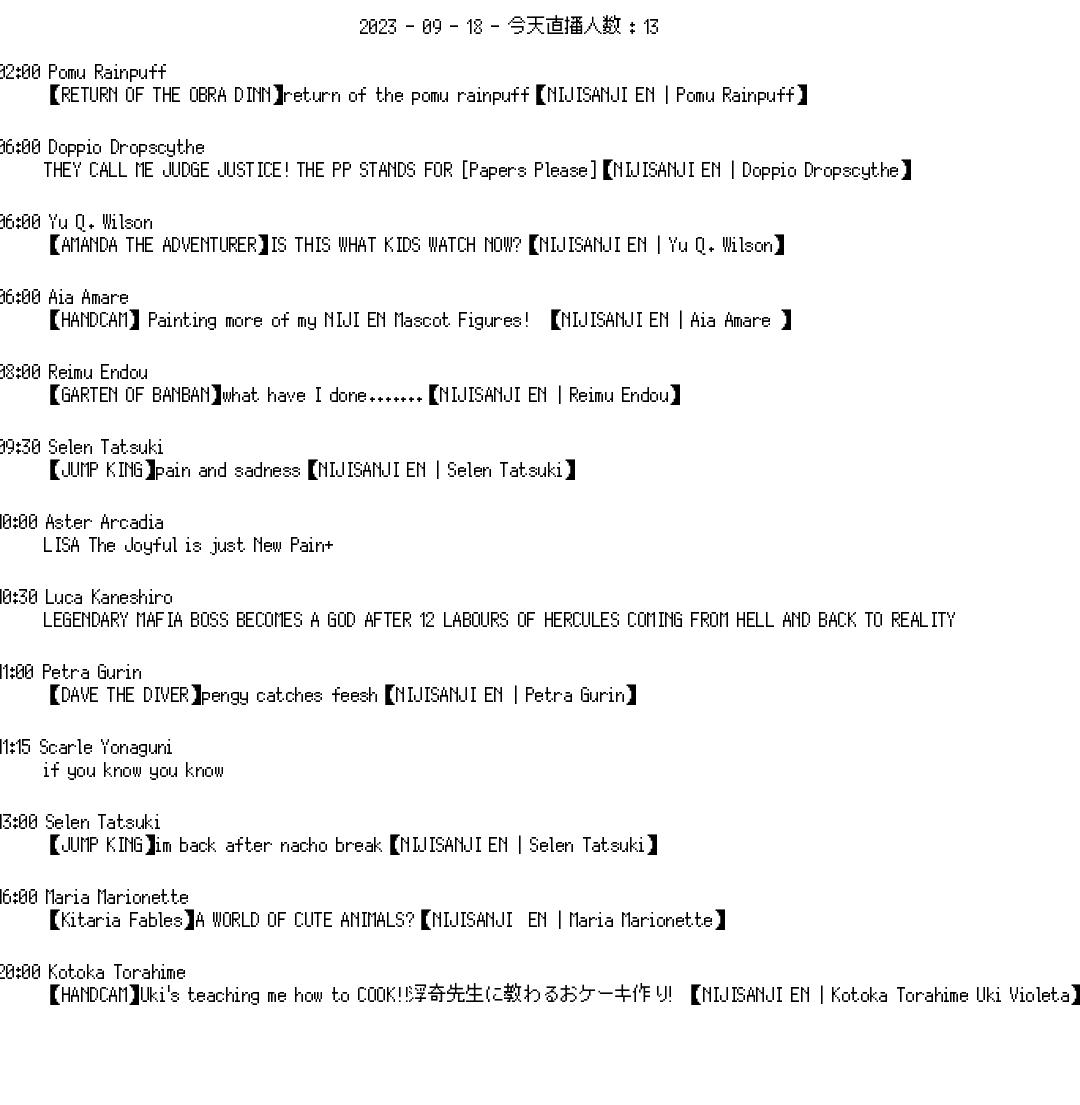
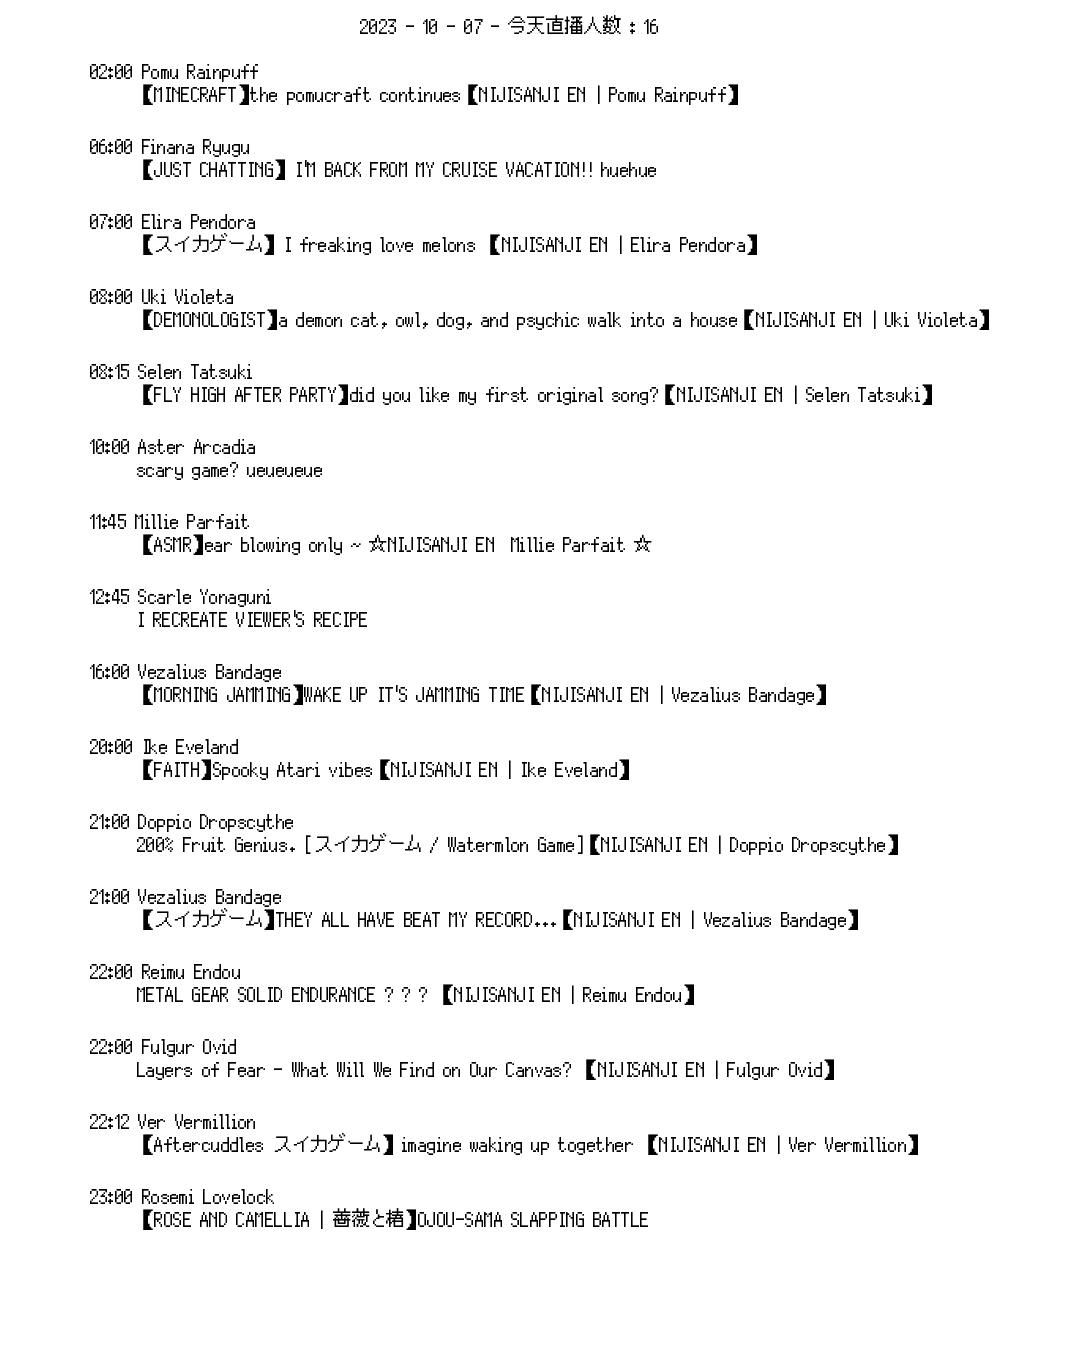
更新部分样式

diff --git a/nijisan_en_daily.html b/nijisan_en_daily.html
@@ -1,81 +1,102 @@
 
-    <h1 align="center">2023 - 09 - 18 - 今天直播人数 : 13</h1>
+    <!DOCTYPE html>
+    <html lang="en">
+    <body align="center">
+    <h1>2023 - 10 - 07 - 今天直播人数 : 16</h1>
     
-        <h3 align="center">02:00   Pomu Rainpuff </h3>
-        <h5 align="center">【RETURN OF THE OBRA DINN】return of the pomu rainpuff【NIJISANJI EN | Pomu Rainpuff】  <a href="https://youtube.com/watch?v=iRKBgt3zxCA">LINK</a>
+        <h2>02:00   Pomu Rainpuff </h2>
+        <h3>【MINECRAFT】the pomucraft continues【NIJISANJI EN | Pomu Rainpuff】</h3>  <br/>
+        <a href="https://youtube.com/watch?v=Chr4j6aPIP8"><img src="https://i.ytimg.com/vi/Chr4j6aPIP8/mqdefault.jpg" alt="Pomu Rainpuff "/> <br/>
+        ⬆ CLICK LINK</a>
         <br/>
-        <img src="https://i.ytimg.com/vi/iRKBgt3zxCA/mqdefault.jpg"/>
-        </h5>
         
-        <h3 align="center">06:00   Doppio Dropscythe</h3>
-        <h5 align="center">THEY CALL ME JUDGE JUSTICE! THE PP STANDS FOR [Papers Please]【NIJISANJI EN | Doppio Dropscythe】  <a href="https://youtube.com/watch?v=2dnM-hdPuN8">LINK</a>
+        <h2>06:00   Finana Ryugu </h2>
+        <h3>【JUST CHATTING】 I'M BACK FROM MY CRUISE VACATION!! huehue 🚢</h3>  <br/>
+        <a href="https://youtube.com/watch?v=Z2gFful5hdE"><img src="https://i.ytimg.com/vi/Z2gFful5hdE/mqdefault.jpg" alt="Finana Ryugu "/> <br/>
+        ⬆ CLICK LINK</a>
         <br/>
-        <img src="https://i.ytimg.com/vi/2dnM-hdPuN8/mqdefault.jpg"/>
-        </h5>
         
-        <h3 align="center">06:00   Yu Q. Wilson </h3>
-        <h5 align="center">【AMANDA THE ADVENTURER】IS THIS WHAT KIDS WATCH NOW?【NIJISANJI EN | Yu Q. Wilson】  <a href="https://youtube.com/watch?v=_DTSaDB_tvg">LINK</a>
+        <h2>07:00   Elira Pendora </h2>
+        <h3>【スイカゲーム】 I freaking love melons 【NIJISANJI EN | Elira Pendora】</h3>  <br/>
+        <a href="https://youtube.com/watch?v=3hQcrkURBS4"><img src="https://i.ytimg.com/vi/3hQcrkURBS4/mqdefault_live.jpg" alt="Elira Pendora "/> <br/>
+        ⬆ CLICK LINK</a>
         <br/>
-        <img src="https://i.ytimg.com/vi/_DTSaDB_tvg/mqdefault.jpg"/>
-        </h5>
         
-        <h3 align="center">06:00   Aia Amare </h3>
-        <h5 align="center">【HANDCAM】 Painting more of my NIJI EN Mascot Figures! 🎨 【NIJISANJI EN | Aia Amare 】  <a href="https://youtube.com/watch?v=emoRU-7UUV0">LINK</a>
+        <h2>08:00   Uki Violeta </h2>
+        <h3>【DEMONOLOGIST】a demon cat, owl, dog, and psychic walk into a house【NIJISANJI EN | Uki Violeta】</h3>  <br/>
+        <a href="https://youtube.com/watch?v=VgSUZ7pHyNU"><img src="https://i.ytimg.com/vi/VgSUZ7pHyNU/mqdefault.jpg" alt="Uki Violeta "/> <br/>
+        ⬆ CLICK LINK</a>
         <br/>
-        <img src="https://i.ytimg.com/vi/emoRU-7UUV0/mqdefault.jpg"/>
-        </h5>
         
-        <h3 align="center">08:00   Reimu Endou</h3>
-        <h5 align="center">【GARTEN OF BANBAN】what have I done.......【NIJISANJI EN | Reimu Endou】  <a href="https://youtube.com/watch?v=UW6evpUu2o4">LINK</a>
+        <h2>08:15   Selen Tatsuki </h2>
+        <h3>【FLY HIGH AFTER PARTY】did you like my first original song?【NIJISANJI EN | Selen Tatsuki】</h3>  <br/>
+        <a href="https://youtube.com/watch?v=i6xqLwDYp1c"><img src="https://i.ytimg.com/vi/i6xqLwDYp1c/mqdefault.jpg" alt="Selen Tatsuki "/> <br/>
+        ⬆ CLICK LINK</a>
         <br/>
-        <img src="https://i.ytimg.com/vi/UW6evpUu2o4/mqdefault.jpg"/>
-        </h5>
         
-        <h3 align="center">09:30   Selen Tatsuki </h3>
-        <h5 align="center">【JUMP KING】pain and sadness【NIJISANJI EN | Selen Tatsuki】  <a href="https://youtube.com/watch?v=GBx3kfkCFAc">LINK</a>
+        <h2>10:00   Aster Arcadia </h2>
+        <h3>scary game? ueueueue 😭</h3>  <br/>
+        <a href="https://youtube.com/watch?v=84o9ik6b2RI"><img src="https://i.ytimg.com/vi/84o9ik6b2RI/mqdefault.jpg" alt="Aster Arcadia "/> <br/>
+        ⬆ CLICK LINK</a>
         <br/>
-        <img src="https://i.ytimg.com/vi/GBx3kfkCFAc/mqdefault.jpg"/>
-        </h5>
         
-        <h3 align="center">10:00   Aster Arcadia </h3>
-        <h5 align="center">LISA The Joyful is just New Pain+  <a href="https://youtube.com/watch?v=UvuvZLsXuW4">LINK</a>
+        <h2>11:45   Millie Parfait</h2>
+        <h3>【ASMR】ear blowing only ~ ☆⭒NIJISANJI EN ✧ Millie Parfait ☆⭒</h3>  <br/>
+        <a href="https://youtube.com/watch?v=-yFRzaGK-Gc"><img src="https://i.ytimg.com/vi/-yFRzaGK-Gc/mqdefault.jpg" alt="Millie Parfait"/> <br/>
+        ⬆ CLICK LINK</a>
         <br/>
-        <img src="https://i.ytimg.com/vi/UvuvZLsXuW4/mqdefault_live.jpg"/>
-        </h5>
         
-        <h3 align="center">10:30   Luca Kaneshiro</h3>
-        <h5 align="center">LEGENDARY MAFIA BOSS BECOMES A GOD AFTER 12 LABOURS OF HERCULES COMING FROM HELL AND BACK TO REALITY  <a href="https://youtube.com/watch?v=eWXjLTOKiZg">LINK</a>
+        <h2>12:45   Scarle Yonaguni </h2>
+        <h3>I RECREATE VIEWER'S RECIPE</h3>  <br/>
+        <a href="https://youtube.com/watch?v=s-HyzVtqUHA"><img src="https://i.ytimg.com/vi/s-HyzVtqUHA/mqdefault_live.jpg" alt="Scarle Yonaguni "/> <br/>
+        ⬆ CLICK LINK</a>
         <br/>
-        <img src="https://i.ytimg.com/vi/eWXjLTOKiZg/mqdefault.jpg"/>
-        </h5>
         
-        <h3 align="center">11:00   Petra Gurin</h3>
-        <h5 align="center">【DAVE THE DIVER】pengy catches feesh【NIJISANJI EN | Petra Gurin】  <a href="https://youtube.com/watch?v=8sklLvfPCVs">LINK</a>
+        <h2>16:00   Vezalius Bandage </h2>
+        <h3>【MORNING JAMMING】WAKE UP IT'S JAMMING TIME【NIJISANJI EN | Vezalius Bandage】</h3>  <br/>
+        <a href="https://youtube.com/watch?v=w53TrDLdhsM"><img src="https://i.ytimg.com/vi/w53TrDLdhsM/mqdefault_live.jpg" alt="Vezalius Bandage "/> <br/>
+        ⬆ CLICK LINK</a>
         <br/>
-        <img src="https://i.ytimg.com/vi/8sklLvfPCVs/mqdefault_live.jpg"/>
-        </h5>
         
-        <h3 align="center">11:15   Scarle Yonaguni </h3>
-        <h5 align="center">if you know you know  <a href="https://youtube.com/watch?v=hkLpg-YkA7o">LINK</a>
+        <h2>20:00   Ike Eveland</h2>
+        <h3>【FAITH】Spooky Atari vibes【NIJISANJI EN | Ike Eveland】</h3>  <br/>
+        <a href="https://youtube.com/watch?v=CgEdrV1ewak"><img src="https://i.ytimg.com/vi/CgEdrV1ewak/mqdefault_live.jpg" alt="Ike Eveland"/> <br/>
+        ⬆ CLICK LINK</a>
         <br/>
-        <img src="https://i.ytimg.com/vi/hkLpg-YkA7o/mqdefault_live.jpg"/>
-        </h5>
         
-        <h3 align="center">13:00   Selen Tatsuki </h3>
-        <h5 align="center">【JUMP KING】im back after nacho break【NIJISANJI EN | Selen Tatsuki】  <a href="https://youtube.com/watch?v=8uVuESMQuJ0">LINK</a>
+        <h2>21:00   Doppio Dropscythe</h2>
+        <h3>200% Fruit Genius. [スイカゲーム / Watermlon Game]【NIJISANJI EN | Doppio Dropscythe】</h3>  <br/>
+        <a href="https://youtube.com/watch?v=4pKZT8o8DS4"><img src="https://i.ytimg.com/vi/4pKZT8o8DS4/mqdefault_live.jpg" alt="Doppio Dropscythe"/> <br/>
+        ⬆ CLICK LINK</a>
         <br/>
-        <img src="https://i.ytimg.com/vi/8uVuESMQuJ0/mqdefault_live.jpg"/>
-        </h5>
         
-        <h3 align="center">16:00   Maria Marionette </h3>
-        <h5 align="center">【Kitaria Fables】A WORLD OF CUTE ANIMALS?【NIJISANJI  EN | Maria Marionette】  <a href="https://youtube.com/watch?v=lV0zmWr6n5g">LINK</a>
+        <h2>21:00   Vezalius Bandage </h2>
+        <h3>【スイカゲーム】THEY ALL HAVE BEAT MY RECORD...🍉【NIJISANJI EN | Vezalius Bandage】</h3>  <br/>
+        <a href="https://youtube.com/watch?v=1baIHG2fmy8"><img src="https://i.ytimg.com/vi/1baIHG2fmy8/mqdefault_live.jpg" alt="Vezalius Bandage "/> <br/>
+        ⬆ CLICK LINK</a>
         <br/>
-        <img src="https://i.ytimg.com/vi/lV0zmWr6n5g/mqdefault_live.jpg"/>
-        </h5>
         
-        <h3 align="center">20:00   Kotoka Torahime</h3>
-        <h5 align="center">【HANDCAM】Uki's teaching me how to COOK!!🍰浮奇先生に教わるおケーキ作り！【NIJISANJI EN | Kotoka Torahime Uki Violeta】  <a href="https://youtube.com/watch?v=PE7W-2uLPNc">LINK</a>
+        <h2>22:00   Reimu Endou</h2>
+        <h3>METAL GEAR SOLID ENDURANCE ? ? ? 【NIJISANJI EN | Reimu Endou】</h3>  <br/>
+        <a href="https://youtube.com/watch?v=Y8mTc1u_gMY"><img src="https://i.ytimg.com/vi/Y8mTc1u_gMY/mqdefault_live.jpg" alt="Reimu Endou"/> <br/>
+        ⬆ CLICK LINK</a>
         <br/>
-        <img src="https://i.ytimg.com/vi/PE7W-2uLPNc/mqdefault_live.jpg"/>
-        </h5>
         
+        <h2>22:00   Fulgur Ovid </h2>
+        <h3>Layers of Fear - What Will We Find on Our Canvas? 【NIJISANJI EN | Fulgur Ovid】</h3>  <br/>
+        <a href="https://youtube.com/watch?v=8wXJtyrpaoc"><img src="https://i.ytimg.com/vi/8wXJtyrpaoc/mqdefault_live.jpg" alt="Fulgur Ovid "/> <br/>
+        ⬆ CLICK LINK</a>
+        <br/>
+        
+        <h2>22:12   Ver Vermillion</h2>
+        <h3>【Aftercuddles スイカゲーム🍉】 imagine waking up together 【NIJISANJI EN | Ver Vermillion】</h3>  <br/>
+        <a href="https://youtube.com/watch?v=7mAPecJlQQI"><img src="https://i.ytimg.com/vi/7mAPecJlQQI/mqdefault_live.jpg" alt="Ver Vermillion"/> <br/>
+        ⬆ CLICK LINK</a>
+        <br/>
+        
+        <h2>23:00   Rosemi Lovelock</h2>
+        <h3>【ROSE AND CAMELLIA | 薔薇と椿】OJOU-SAMA SLAPPING BATTLE💢</h3>  <br/>
+        <a href="https://youtube.com/watch?v=07T4oLklCcs"><img src="https://i.ytimg.com/vi/07T4oLklCcs/mqdefault_live.jpg" alt="Rosemi Lovelock"/> <br/>
+        ⬆ CLICK LINK</a>
+        <br/>
+        </body><html>

diff --git a/get_schedules.py b/get_schedules.py
@@ -12,20 +12,22 @@ import datetime
 from PIL import Image, ImageFont, ImageDraw
 
 class Liver:
-    def __init__(self, name, headIcon, title, scheduleTime, streamThumbnail, streamUrl):
+    def __init__(self, name, head_icon, title, schedule_time, stream_thumbnail, stream_url):
         self.name = name
-        self.heabIcon = headIcon
+        self.headIcon = head_icon
         self.title = title
-        self.scheduleTime = scheduleTime
-        self.streamThumbnail = streamThumbnail
-        self.streamUrl = streamUrl
+        self.scheduleTime = schedule_time
+        self.streamThumbnail = stream_thumbnail
+        self.streamUrl = stream_url
+    def __str__(self):
+        return self.name + " - " + self.headIcon + " - " + self.title + " - " + self.scheduleTime + " - " + self.streamThumbnail + " - " + self.streamUrl
 
 
 path = os.getcwd()
 imgFileName = path + "/schedules.jpg"
 _fontType = './silver.ttf'
-_liverList = []
-_liveListTextSize = 0
+_liver_list = list()
+_live_list_text_size = 0
 reqUrl = 'https://dhiljqbdkw8vk.cloudfront.net/schedules'
 reqParams = {
     
@@ -37,9 +39,10 @@ reqHeaders = {
         'Accept-Language': 'zh-CN,zh;q=0.9'
     }
 
-def get():
+def fun_get():
     response = requests.get(url = reqUrl, params = reqParams, headers = reqHeaders)
-    if(response.status_code == 200):
+    global _liver_list, _live_list_text_size
+    if response.status_code == 200:
         _array = json.loads(response.text)
         for _obj in _array: 
             _headIconJson = json.loads(json.dumps(_obj['StreamerThumbnails']))
@@ -49,35 +52,34 @@ def get():
                 if 'ScheduledStartTime' in _schedule:
                     _videoId = json.loads(json.dumps(_schedule['VideoId']))
                     _scheduleThumbnails = json.loads(json.dumps(_schedule['ThumbnailDetails']))
-                    _schedule['ScheduledStartTime'] = datetime.datetime.strptime(str(_schedule['ScheduledStartTime']),'%Y-%m-%dT%H:%M:%S.%fZ') + datetime.timedelta(hours=8)
-                    scheduleDT = _schedule['ScheduledStartTime'].strftime('%Y-%m-%d')                
-                    nowDT = datetime.datetime.today().strftime('%Y-%m-%d') 
-                    if(scheduleDT == nowDT):
+                    _schedule['ScheduledStartTime'] = datetime.datetime.strptime(str(_schedule['ScheduledStartTime']),'%Y-%m-%dT%H:%M:%S.%fZ') + datetime.timedelta(hours = 8)
+                    schedule_datetime = _schedule['ScheduledStartTime'].strftime('%Y-%m-%d')
+                    now_datetime = datetime.datetime.today().strftime('%Y-%m-%d')
+                    if schedule_datetime == now_datetime:
                         _liver = Liver(
                             name = str(_obj['StreamerName']).replace('【NIJISANJI EN】',''),
-                            headIcon = _headIconJson['Url'],
+                            head_icon= _headIconJson['Url'],
                             title = _schedule['Title'],
-                            scheduleTime = str(_schedule['ScheduledStartTime'].strftime('%H:%M')),
-                            streamThumbnail = _scheduleThumbnails['Url'],
-                            streamUrl = "https://youtube.com/watch?v=" + _videoId #_channelUrl + _videoId
+                            schedule_time= str(_schedule['ScheduledStartTime'].strftime('%H:%M')),
+                            stream_thumbnail= _scheduleThumbnails['Url'],
+                            stream_url="https://youtube.com/watch?v=" + _videoId #_channelUrl + _videoId
                         )
                         # print(_liver.__dict__)
-                        global _liverList
-                        _liverList.append(_liver)
-                        
-                        global _liveListTextSize
-                        _liveListTextSize = _liveListTextSize + 4 + len(_liver.name) + 8 + len(_liver.heabIcon) + 5 + len(_liver.title) + 12 + len(_liver.scheduleTime) + 15 + len(_liver.streamThumbnail)
+                        _liver_list.append(_liver)
 
-                    _liverList.sort(key=takeSecond)
+                        _live_list_text_size = _live_list_text_size + 4 + len(_liver.name) + 8 + len(_liver.headIcon) + 5 + len(_liver.title) + 12 + len(_liver.scheduleTime) + 15 + len(_liver.streamThumbnail)
+
+                        _liver_list.sort(key = fun_take_second)
 
     else:
-        print(response.text)        
+        print(response.text)
+    return _liver_list
 
-def saveToJPG(margin = 15, backgroundRGB = [255,255,255], fontType = _fontType, fontRGB = [0,0,0]):
+def fun_save_to_jpg(margin = 15, backgroundRGB = [255, 255, 255], fontType = _fontType, fontRGB = [0, 0, 0]):
 
-    textList, maxSingleText, allText = decodeText()
+    textList, maxSingleText, allText = fun_decode_text()
     # print(maxSingleText)
-    size = tuple([1080, len(_liverList) * 85])
+    size = tuple([1080, len(_liver_list) * 85])
     backgroundRGB = tuple(backgroundRGB)
     fontRGB = tuple(fontRGB)
 
@@ -85,7 +87,7 @@ def saveToJPG(margin = 15, backgroundRGB = [255,255,255], fontType = _fontType, 
     iwidth, iheight = image.size # 获取画布高宽
 
     # 计算字节数，GBK编码下汉字双字，英文单字。都转为双字计算
-    size=len(maxSingleText.encode('utf-8'))/3
+    size = len(maxSingleText.encode('utf-8'))/3
     # 计算字体大小，每两个字号按字节长度翻倍。
     fontSize = 30#math.ceil((iwidth-(margin*2))/size)
     # print(fontSize)
@@ -100,7 +102,7 @@ def saveToJPG(margin = 15, backgroundRGB = [255,255,255], fontType = _fontType, 
     # fonty = (iheight - fheight - oheight) / 4
     fonty = fontSize + margin * 2
 
-    draw.text((iwidth / 3, margin), str(datetime.datetime.today().strftime('%Y - %m - %d')) + " - 今天直播人数 : " + str(len(_liverList)), fontRGB, font)
+    draw.text((iwidth / 3, margin), str(datetime.datetime.today().strftime('%Y - %m - %d')) + " - 今天直播人数 : " + str(len(_liver_list)), fontRGB, font)
     for tmpText in textList:
         draw.text((fontx, fonty), tmpText, fontRGB, font)
         fonty += fontSize * 2 + margin
@@ -108,46 +110,49 @@ def saveToJPG(margin = 15, backgroundRGB = [255,255,255], fontType = _fontType, 
         
     image.save(imgFileName) # 保存图片        
 
-def decodeText():
-    textList = []
-    maxSingleText = ""
-    allText = ""
-    _liverList.sort(key=takeSecond)
-    for _liver in _liverList:
+def fun_decode_text():
+    text_list = []
+    max_single_text = ""
+    all_text = ""
+    _liver_list.sort(key=fun_take_second)
+    for _liver in _liver_list:
         # print(_liver.__dict__)
-        tmpText = _liver.scheduleTime + " " + _liver.name + "\n      " + _liver.title + "\n"
-        textList.append(tmpText)
-        allText += tmpText
-        if (len(maxSingleText) < len(tmpText)):
-            maxSingleText = tmpText
-    return textList, maxSingleText, allText
+        tmp_text = _liver.scheduleTime + " " + _liver.name + "\n      " + _liver.title + "\n"
+        text_list.append(tmp_text)
+        all_text += tmp_text
+        if len(max_single_text) < len(tmp_text):
+            max_single_text = tmp_text
+    return text_list, max_single_text, all_text
 
-def takeSecond(elem):
+def fun_take_second(elem):
     return elem.scheduleTime
 
-def createHtml():
-    h1 = str(datetime.datetime.today().strftime('%Y - %m - %d')) + " - 今天直播人数 : " + str(len(_liverList))
+def fun_create_html():
+    h1 = str(datetime.datetime.today().strftime('%Y - %m - %d')) + " - 今天直播人数 : " + str(len(_liver_list))
     html = """
-    <h1 align="center">%s</h1>
-    """%(h1)
-    f = open('nijisan_en_daily.html','w')
-    a_tag_list = []
-    for _liver in _liverList:
+    <!DOCTYPE html>
+    <html lang="en">
+    <body align="center">
+    <h1>%s</h1>
+    """ % h1
+    for _liver in _liver_list:
         a_tag = """
-        <h3 align="center">%s</h3>
-        <h5 align="center">%s  <a href="%s">LINK</a>
+        <h2>%s</h2>
+        <h3>%s</h3>  <br/>
+        <a href="%s"><img src="%s" alt="%s"/> <br/>
+        ⬆ CLICK LINK</a>
         <br/>
-        <img src="%s"/>
-        </h5>
-        """%(_liver.scheduleTime + "   " + _liver.name, _liver.title, _liver.streamUrl, _liver.streamThumbnail)
-        html+=a_tag
+        """%(_liver.scheduleTime + "   " + _liver.name, _liver.title, _liver.streamUrl, _liver.streamThumbnail, _liver.name)
+        html += a_tag
+    html += "</body><html>"
+    f = open('nijisan_en_daily.html', 'w')
     f.write(html)
     f.close()
 
 def main():
-    get()
-    saveToJPG()
-    createHtml()
+    print(fun_get())
+    fun_save_to_jpg()
+    fun_create_html()
 
 if __name__ == '__main__':
     main()
